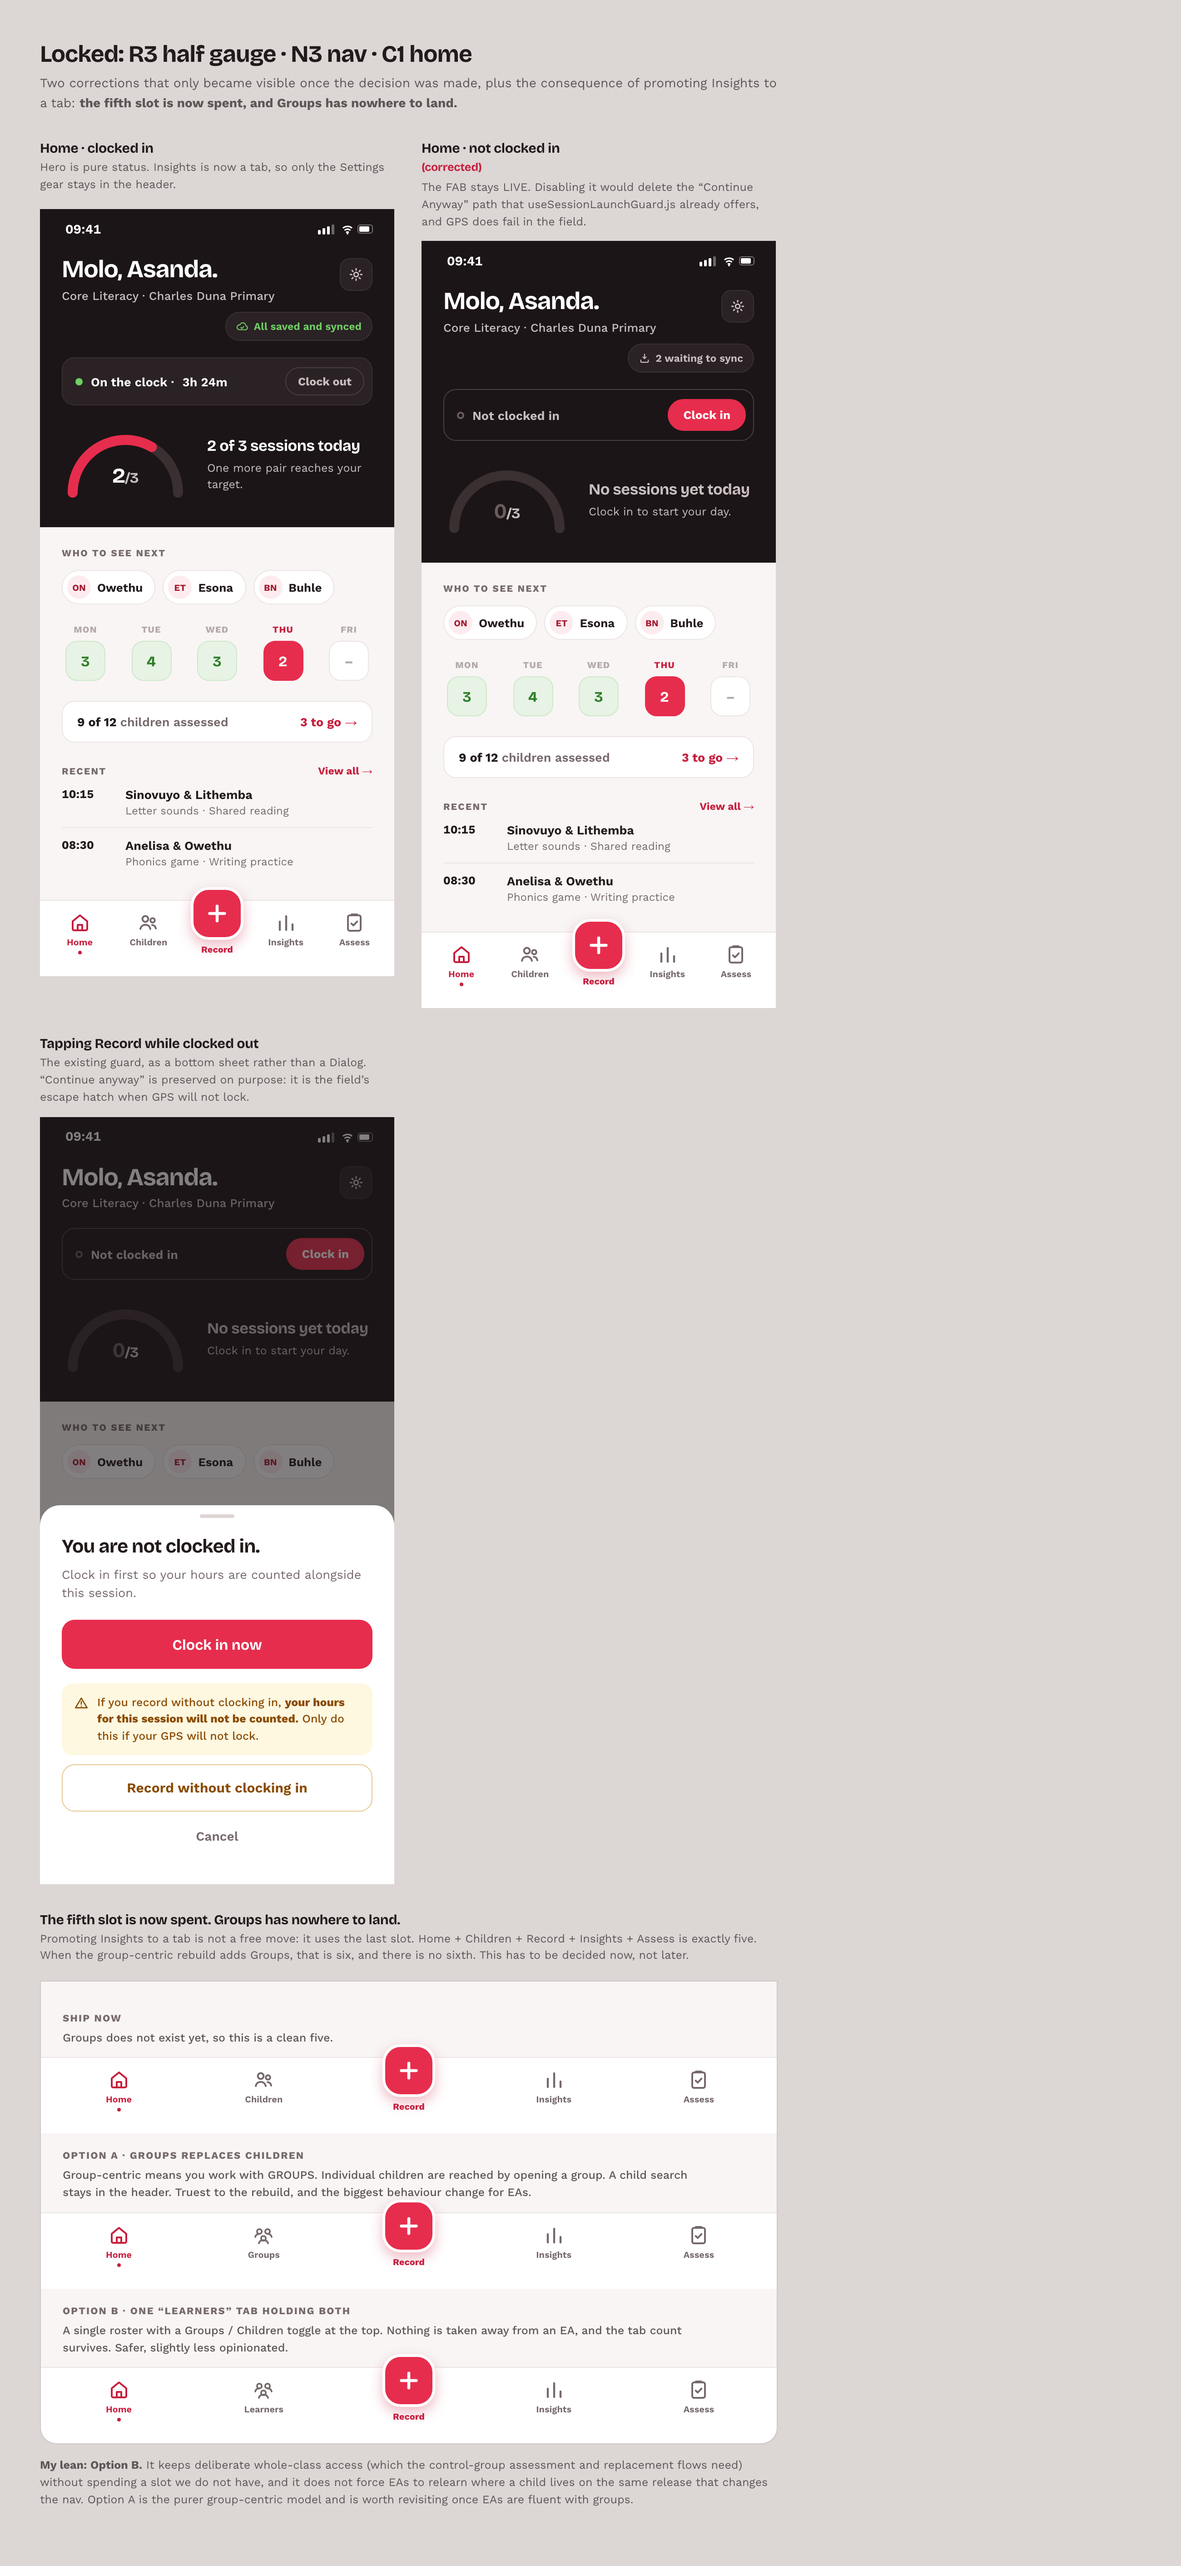
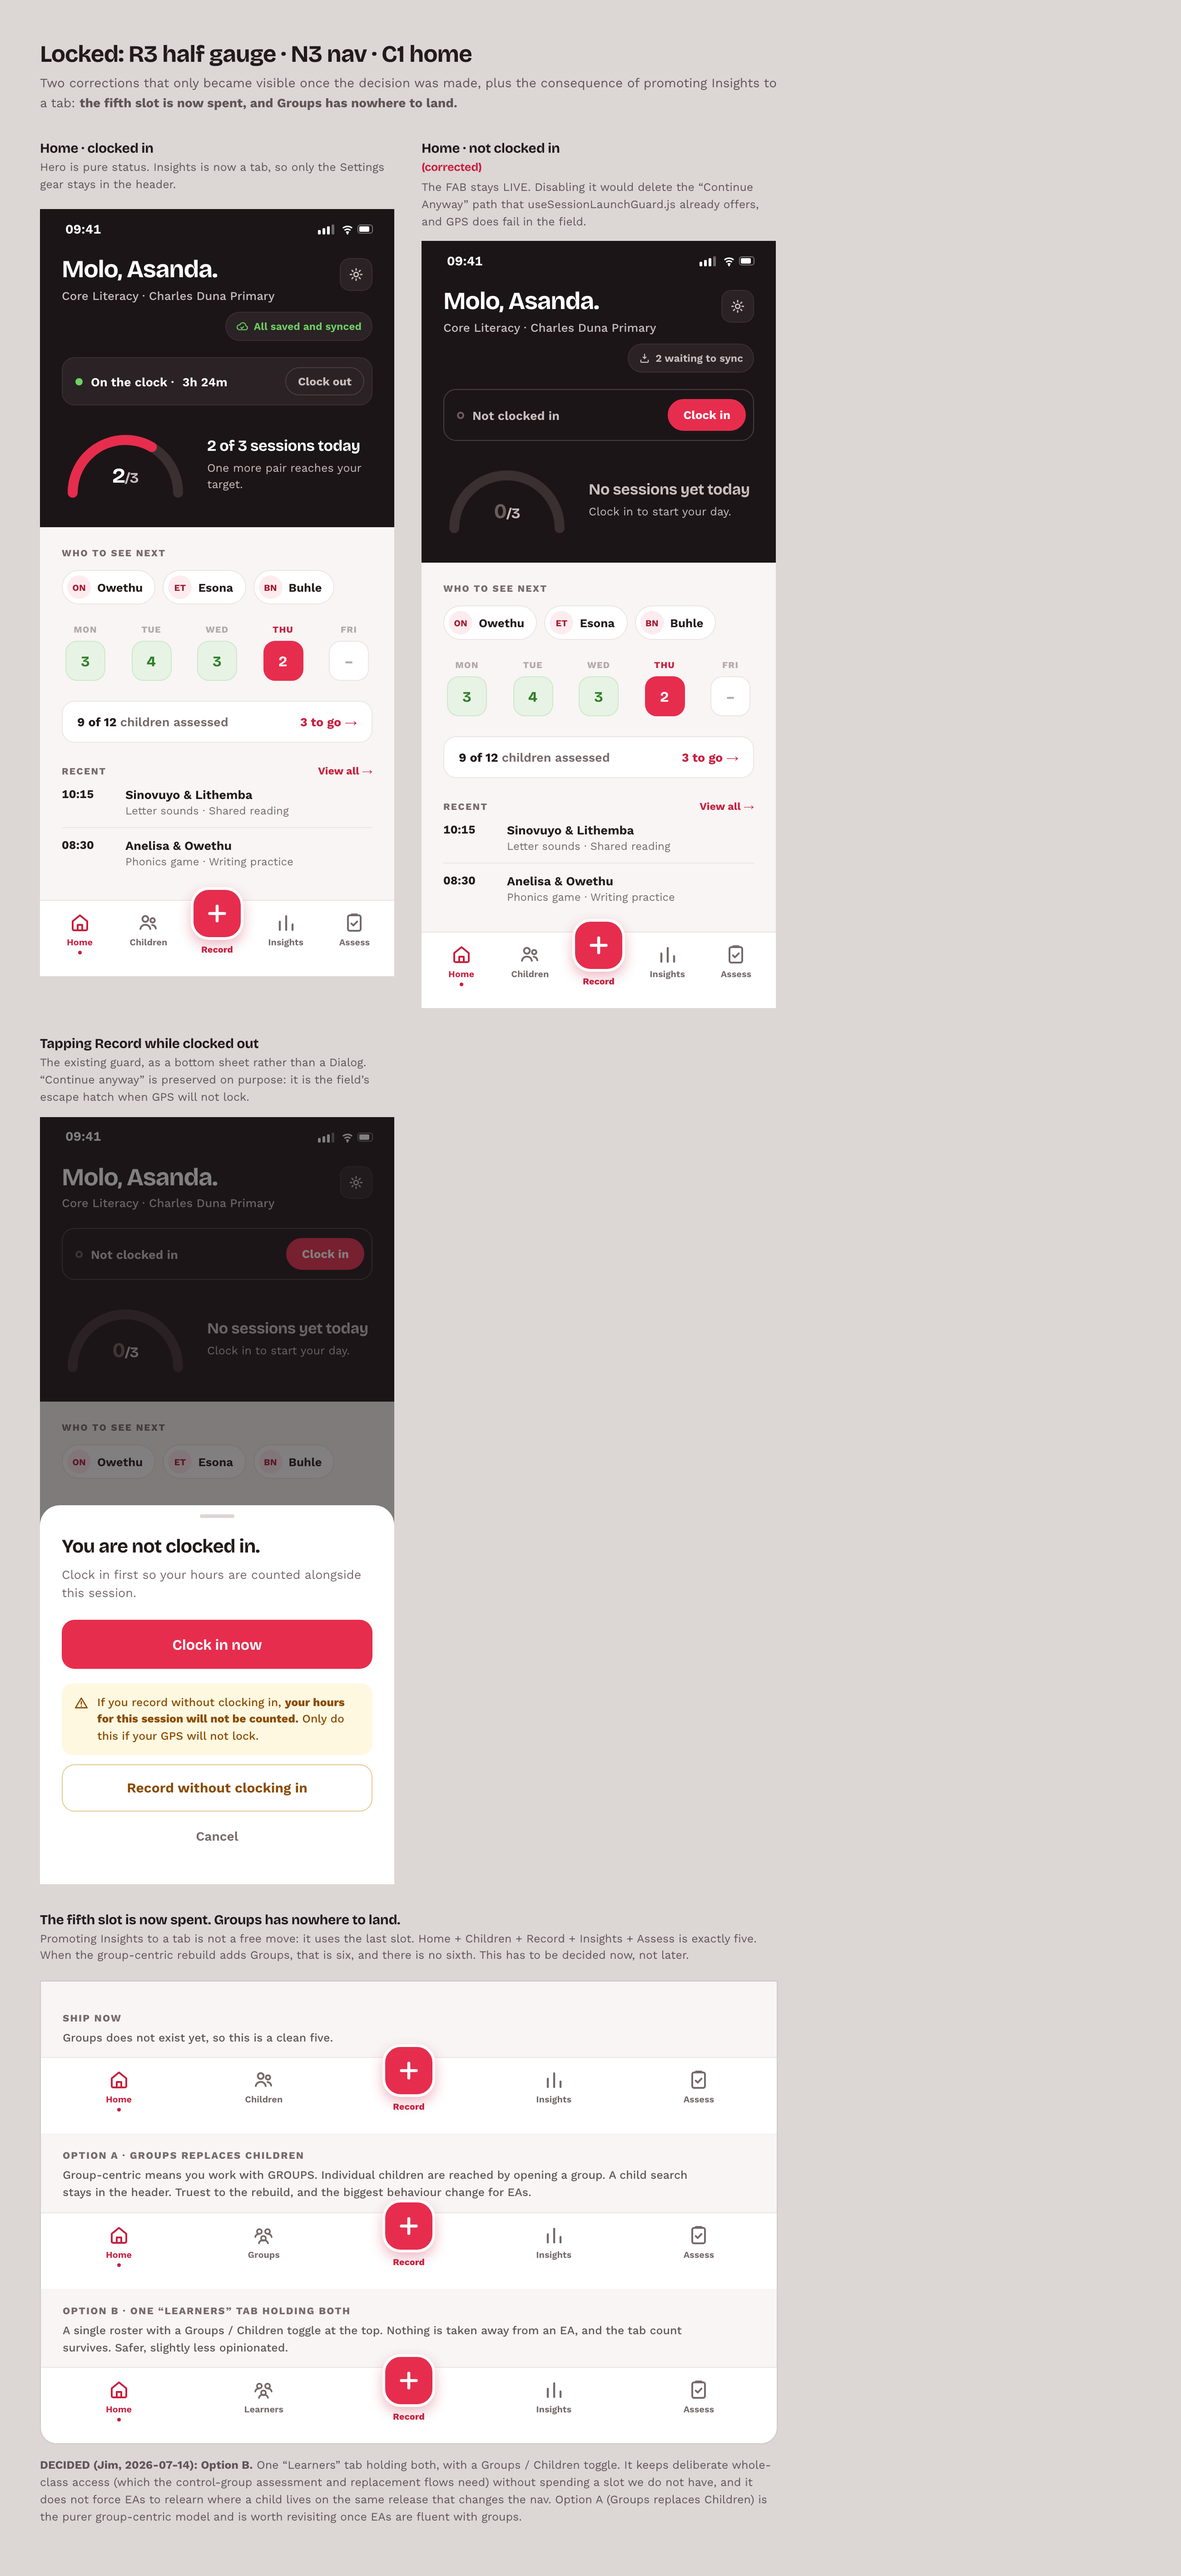
docs: record home-redesign decisions; log item-5/group_id findings in open-work
- design/DESIGN-DECISIONS-2026-07.md: the standing handoff for the main-screen
  redesign. Locks palette (charcoal + Masi red, no rebrand), progress widget
  (R3 half gauge), nav (N3, centre button records), home (C1 status hero),
  Insights as 5th tab, and Groups sharing a "Learners" tab (Option B). Records
  the open questions the group-centric rebuild inherits.

- design/mockups-2026-07-c/04-locked: Option B marked DECIDED.

- documentation/open-work.md: add the reconciliation findings not already tracked —
  Top-10 item 5 remnants (row tap still opens EditChild at ClassDetailScreen.js:89;
  last-session letters never shown in the form), the doc-drift note on
  improvements-2026-07.md:6 overstating completion of items 2/3/5, and the sharpened
  sessions.group_id finding (written locally, stripped to NULL server-side at
  offlineSync.js:67, so the ZZ dosage-research story is unsatisfied).

diff --git a/design/mockups-2026-07-c/04-locked/index.html b/design/mockups-2026-07-c/04-locked/index.html
@@ -434,7 +434,7 @@
     </div>
 
     <div class="cap" style="margin-top:14px;">
-      <span><b>My lean: Option B.</b> It keeps deliberate whole-class access (which the control-group assessment and replacement flows need) without spending a slot we do not have, and it does not force EAs to relearn where a child lives on the same release that changes the nav. Option A is the purer group-centric model and is worth revisiting once EAs are fluent with groups.</span>
+      <span><b>DECIDED (Jim, 2026-07-14): Option B.</b> One “Learners” tab holding both, with a Groups / Children toggle. It keeps deliberate whole-class access (which the control-group assessment and replacement flows need) without spending a slot we do not have, and it does not force EAs to relearn where a child lives on the same release that changes the nav. Option A (Groups replaces Children) is the purer group-centric model and is worth revisiting once EAs are fluent with groups.</span>
     </div>
   </div>
 

diff --git a/design/DESIGN-DECISIONS-2026-07.md b/design/DESIGN-DECISIONS-2026-07.md
@@ -1,0 +1,82 @@
+# Home & navigation redesign — decisions and handoff (July 2026)
+
+**Read this first if you are picking up the main-screen redesign in a new session.**
+It is the standing record of what was decided, why, and what is deliberately still open.
+The mockups referenced live under `design/mockups-2026-07-b/` and `design/mockups-2026-07-c/`.
+
+Author of the exploration: design pass with Jim, 2026-07-13 to 07-14. Jim is the decision-maker;
+every "DECIDED" line below is his call.
+
+---
+
+## The decisions (locked)
+
+| # | Decision | Why |
+|---|----------|-----|
+| D1 | **Palette: charcoal + Masi red. No rebrand.** | `heroDark #1C1517` and `primary #E72D4D` already exist in `src/constants/colors.js` and already pass the fail-closed guard `__tests__/colors.test.js`. The earlier warm palettes (round-two `mockups-2026-07-b`) were dropped precisely because they would have required a token migration and a brand decision. This costs neither. |
+| D2 | **Progress widget: R3, the half gauge.** | Same legibility as a full ring, ~40% less vertical height. Height is the scarcest resource in the header where it lives. It draws "2 of 3 sessions today" (target 3, ceiling 5 — real values from `sessionGoal.js`). Alternatives compared in `mockups-2026-07-c/01-progress-options/`. |
+| D3 | **Nav model: N3. The centre button RECORDS.** | The big centre FAB does the primary action (record a session) from anywhere, not navigate Home. An EA records 3–5 sessions/day and reads Insights ~weekly; the one-tap path belongs to the action. Jim's original sketch put Home in the centre (N2); he agreed N3 is right. |
+| D4 | **Home layout: C1. Hero is pure status; body answers "who next".** | Because the nav records, the hero needs no CTA and becomes status only (greeting, clock state, half gauge). The body leads with **who to see next** — the `notSeenThisWeek` figure `dashboardStats.js:354` already computes but today only shows on the Sessions tab. |
+| D5 | **Insights is promoted to the 5th tab** (Jim's three-bar chart icon). | The three "performance" rows come off the home page. Only the Settings gear stays as a header icon. |
+| D6 | **The fifth slot is now spent, so Groups shares a tab: Option B, one "Learners" tab.** | Home · Learners · **[+ Record]** · Insights · Assess = five. "Learners" holds a Groups / Children toggle. Chosen over Option A (Groups *replaces* Children) because Jim's domain rules require deliberate whole-class access, and B does not force EAs to relearn where a child lives on the same release that changes the nav. |
+| D7 | **Record is never disabled when clocked out.** | `useSessionLaunchGuard.js:30-58` does not block today — it offers "Clock In Now" / "Continue Anyway". That escape hatch is load-bearing: GPS fails in the field, and an EA who genuinely ran a session must still record it. A disabled button silently deletes that path and pushes toward *not recording real work*. |
+| D8 | **The clock-in guard is a bottom sheet, not a Dialog** (standing project preference), and its escape hatch **states its cost**: "Record without clocking in" carries an amber warning — *"your hours for this session will not be counted. Only do this if your GPS will not lock."* | The cost stays on screen at the moment of the tap. |
+
+### The staging plan for D5/D6
+
+Ship the nav **now** as: Home · Children · **[+ Record]** · Insights · Assess (Sessions is *not* a tab;
+recording is the FAB and history lives under Home as "Recent → View all"). When the group-centric
+rebuild lands, Children becomes the "Learners" tab (Groups/Children toggle). The FAB and everything
+above it are unaffected, so the nav is never re-decided twice.
+
+---
+
+## The canonical mockup
+
+**`design/mockups-2026-07-c/04-locked/index.html`** is the source of truth for the locked design.
+Its `preview.png` shows: Home clocked-in, Home not-clocked-in (FAB live), the clock-in bottom sheet,
+and the "fifth slot" nav comparison with Option B marked DECIDED.
+
+Supporting exploration (context, not spec):
+- `mockups-2026-07-c/01-progress-options/` — six ways to draw the progress widget; R3 won.
+- `mockups-2026-07-c/02-bottom-nav/` — the nav trade-off (N1/N2/N3); N3 won.
+- `mockups-2026-07-c/03-red-charcoal-home/` — the home under both nav models.
+- `mockups-2026-07-c/brand.css` — every token copied verbatim from `src/constants/colors.js`, with the source line noted. Use this, not a fresh palette.
+- `mockups-2026-07-b/` — round two (warm palettes, de-bookified Ithemba). **Superseded by the charcoal+red decision (D1)**, kept for history and because its shared-markup/CSS-skin structure is reusable.
+
+To regenerate any PNG: see the "regenerate" note in `mockups-2026-07-b/README.md`. Playwright is
+deliberately kept out of the project's `package.json`.
+
+---
+
+## What the design assumes about the code (verify before building)
+
+These are the real behaviours the mockups are built on. A build should confirm each still holds:
+
+- **Record-from-anywhere already half-exists.** `HomeScreen.js:211` has a "Record Session" button today; `useSessionLaunchGuard.js:30` guards it. N3 makes that guard the FAB's behaviour.
+- **The daily target is real but mislocated.** `sessionGoal.js:11` knows literacy target 3 / ceiling 5. `SessionsTodayRing` currently renders only on the Sessions tab. D2 moves it (as the half gauge) to Home.
+- **"Who to see next" is computed but hidden.** `dashboardStats.js:354` = `notSeenThisWeek`, Sessions-tab only today.
+- **The ring-stage colour tokens are dead.** `ringNeutral` / `ringStart` in `colors.js:78-79` have **zero importers** — they were defined for exactly this widget. Wire them (roadmap item 14c).
+
+---
+
+## Open questions this redesign hands to the group-centric rebuild
+
+These are **not** design-undecided; they are dependencies the rebuild owns. Captured so they aren't lost.
+
+1. **`sessions.group_id` is discarded on the server.** The client writes it locally (`sessionsRepository.js:233`); the server RLS strips it to NULL (`offlineSync.js:67`). Capturing group context on the home screen is pointless while the server drops it. **Fix this as part of the rebuild.** (Now recorded in `documentation/open-work.md` §4.)
+2. **`GRANT_SUBJECTS` does not model membership-mediated grants** — a live tripwire that "must be extended before group-centric (whole-class) access ships" (`rls-sync-contract-map.md`, and `open-work.md` §6). Whole-class access is the rebuild.
+3. **The "Learners" toggle needs a data answer:** one roster query filtered two ways, or two queries? Decide alongside the rebuild's repository work.
+4. **Zero-class / zero-group onboarding** (`open-work.md` §2, 14a) is go-live blocking and interacts with this home screen: on a fresh backend every EA is the empty-state EA on day one. The C1 home needs an explicit empty state, not yet drawn.
+
+---
+
+## Suggested next steps (for the fresh session)
+
+1. **Write the locked home as a spec** (`superpowers:brainstorming` is already done — the decisions above *are* the brainstorm output; go to `writing-plans`), then hand implementation to Codex via `codex-first`. Scope it to Home + the nav shell + the bottom-sheet guard. Leave the "Learners" tab as today's Children until the rebuild.
+2. **Or** tackle the `sessions.group_id` server discard first (open question 1), since it blocks the value of group context everywhere downstream.
+3. Draw the **zero-class empty state** for the C1 home before building — it is go-live blocking and currently unmocked.
+
+Jim's stated go-live target is **1–2 weeks from 2026-07-14**, which makes the device-gate backlog
+(`open-work.md` §0, 46 gates / 0 executed) and the seed script (`open-work.md` §0c) the true critical
+path — the redesign should not crowd them out.

diff --git a/documentation/open-work.md b/documentation/open-work.md
@@ -163,6 +163,14 @@ A brand-new EA with no classes lands on a Home screen that shows nothing actiona
 `HomeScreen.js` has **zero** references to classes. The roadmap explicitly flags this as go-live
 blocking, not polish.
 
+### 5 — Child Results workflow remnants (Top-10 item 5, partial)
+The panel and the Children-tab stack shipped, but the two changes that were the *point* of item 5 did not:
+- **Row-tap still opens the edit form.** `ClassDetailScreen.js:89` navigates to `EditChild` on a child row tap. Item 5's headline UX change was for the row to open the child's **results** (`ChildResults` exists, but only behind a separate button at `:165`). Tapping a child should show how they are doing, not an edit form.
+- **Last-session letters never surface in the session form.** Item 5 #4 (show the letters a child last worked on, inside the capture form) was not built.
+
+### 5b — Reconciliation doc-drift (2026-07-14)
+A full item-by-item reconciliation of the June Top-10 and the ZZ port against the code (2026-07-14) found `improvements-2026-07.md:6`'s summary line **overstates completion**: it lists items "1, 2, 3, 4, 8 and most of 5 are done", but verified against the tree, **item 2 is missing 2c** (finding 17 below), **item 3 is missing its entire typography half** (item 15 below), and **item 5 is missing the row-tap flip** (above) that was its headline change. Treat this file, not that summary line, as the backlog. The reconciliation confirmed every other spot-checked claim in this file holds against the code.
+
 ### Other product items
 - **14b** — ring payoff navigation: `SessionCompleteScreen.js:46` is still a bare `navigation.goBack()`.
 - **14c** — staged ring colours: mapping is hardcoded in `SessionsTodayRing.js`; the `ringNeutral` / `ringStart` tokens in `colors.js:78-79` have **zero importers** (dead tokens).
@@ -211,6 +219,7 @@ These were the *only* record of the item. Their source docs are now in `document
 ## 4. Unbuilt features with a written spec
 
 - **Groups Workflow (§3) and Session Reliability (§4)** in `zazi-izandi-feature-port-roadmap.md` are **entirely unbuilt**, and that roadmap is their only spec. `sessions.group_id` and `sessions.state` exist as *forward-prep server columns only* — RLS pins them NULL/`completed` and the client never writes them. **Do not archive that roadmap.**
+  - **Sharpened 2026-07-14:** `group_id` is not merely unwritten — the client *does* write it locally (`sessionsRepository.js:233`) and the server then **strips it to NULL** (`offlineSync.js:67`). So a reader checking only `migrations.js:561` would wrongly conclude group-context capture shipped; it is inert end-to-end. The consequence is concrete: the ZZ PRD's user story 15 (longitudinal per-group dosage research) is **not satisfied**, because which group a session belonged to is discarded on upload. This must be resolved as part of the group-centric rebuild — capturing group context on the home screen is pointless while the server drops it.
 - **2026-cohort seed script** (`scripts/seed-2026-cohort.js`) — not built. The go-live PRD it belongs to treats seeded data as a *precondition* for the tranche it already shipped.
 - **`seed_data_plan.md` and `bulk_import_children_plan.md`** — both still unbuilt **and both plans are schema-dead**: they target `staff_children` / `children_groups` / `children.class` text columns, none of which exist under the SQLite backend. The *need* is real (bulk import is the onboarding rate-limiter); the *plans* need rewriting, not executing.
 - **Additional session forms** — Numeracy, ZZ Coach, Yeboneer (PRD Phase 5). Only Literacy exists.
